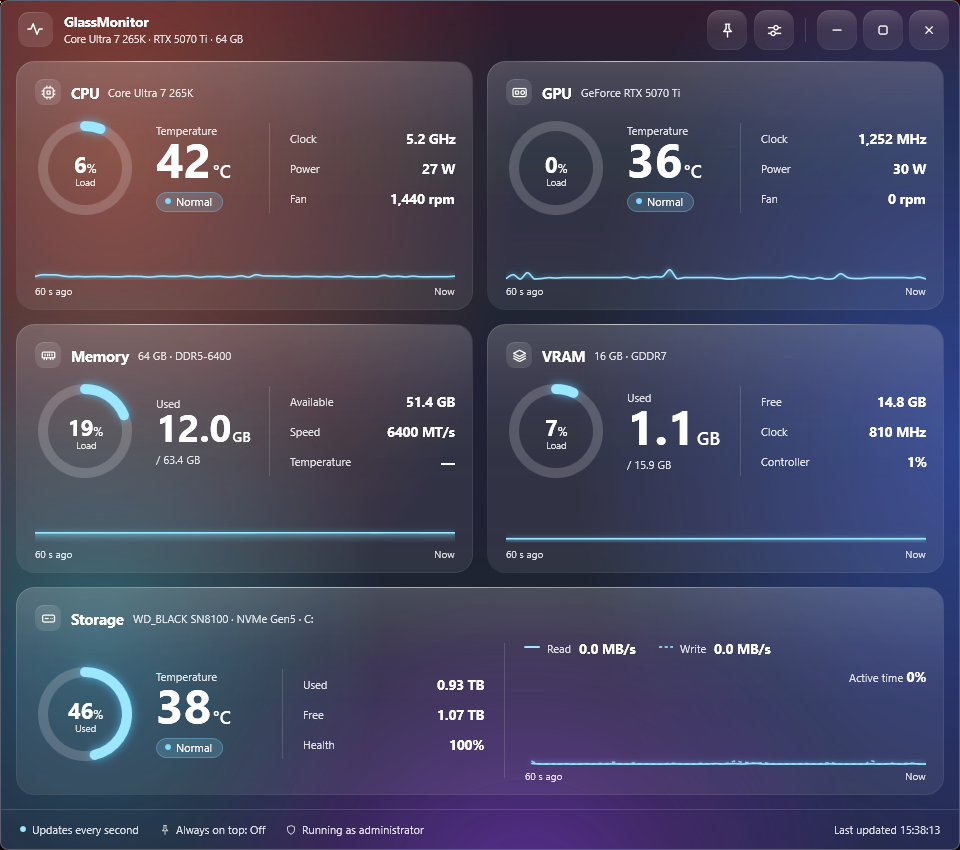
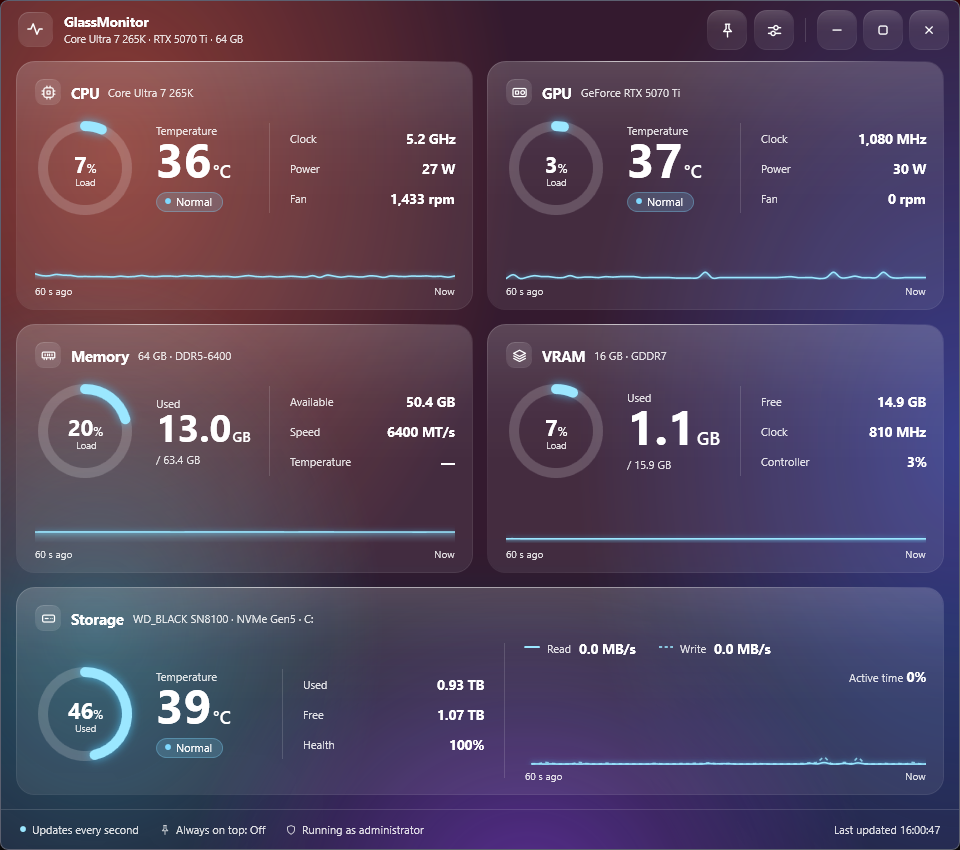
Release 0.2.0
- Bump the version to 0.2.0 (project, manifest, README build example,
  issue template example)
- Retake the English screenshot

The anti-cheat compatibility records stay at 0.1.1, the version they
were checked with.

Claude-Session: https://claude.ai/code/session_01D9Bh3TEuJLc4QfY5UpMD8W

diff --git a/GlassMonitor/ViewModels/MainViewModel.cs b/GlassMonitor/ViewModels/MainViewModel.cs
@@ -134,7 +134,7 @@ public sealed class MainViewModel : ObservableObject
         private set => SetProperty(ref _isCpuSensorLimited, value);
     }
 
-    /// <summary>"GlassMonitor 0.1.1 · PawnIO 2.2.0"（不具合や互換性の報告用）</summary>
+    /// <summary>"GlassMonitor 0.2.0 · PawnIO 2.2.0"（不具合や互換性の報告用）</summary>
     public string VersionText =>
         $"GlassMonitor {_appVersion} · PawnIO {FormatVersion(_pawnIoVersion) ?? Localizer.Get("PawnIo_NotInstalled")}";
 

diff --git a/README.md b/README.md
@@ -136,7 +136,7 @@ dotnet build GlassMonitor.slnx -c Release
 配布用と同じ self-contained ビルドを作るには次を実行します。
 
 ```powershell
-dotnet publish GlassMonitor/GlassMonitor.csproj -c Release -r win-x64 --self-contained true -p:Version=0.1.1 -o publish/GlassMonitor
+dotnet publish GlassMonitor/GlassMonitor.csproj -c Release -r win-x64 --self-contained true -p:Version=0.2.0 -o publish/GlassMonitor
 ```
 
 リリースは `v1.2.3` 形式のタグを push すると、GitHub Actions（[release.yml](.github/workflows/release.yml)）がビルドして zip を Releases に公開します。
@@ -290,7 +290,7 @@ Run `GlassMonitor\bin\Release\net10.0-windows\GlassMonitor.exe` (it requires adm
 To create the same self-contained build as the releases:
 
 ```powershell
-dotnet publish GlassMonitor/GlassMonitor.csproj -c Release -r win-x64 --self-contained true -p:Version=0.1.1 -o publish/GlassMonitor
+dotnet publish GlassMonitor/GlassMonitor.csproj -c Release -r win-x64 --self-contained true -p:Version=0.2.0 -o publish/GlassMonitor
 ```
 
 Pushing a tag such as `v1.2.3` makes GitHub Actions ([release.yml](.github/workflows/release.yml)) build the app and publish the zip to Releases.
